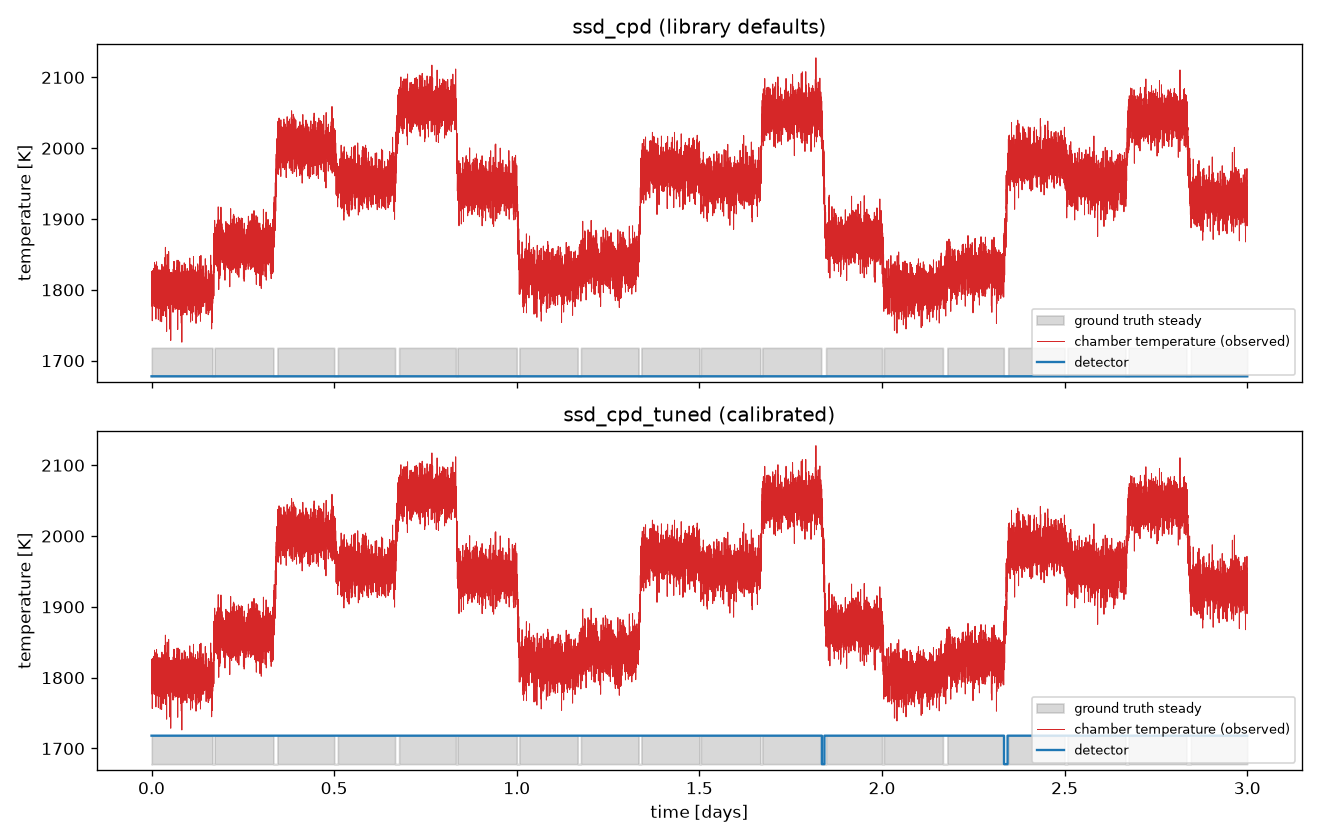
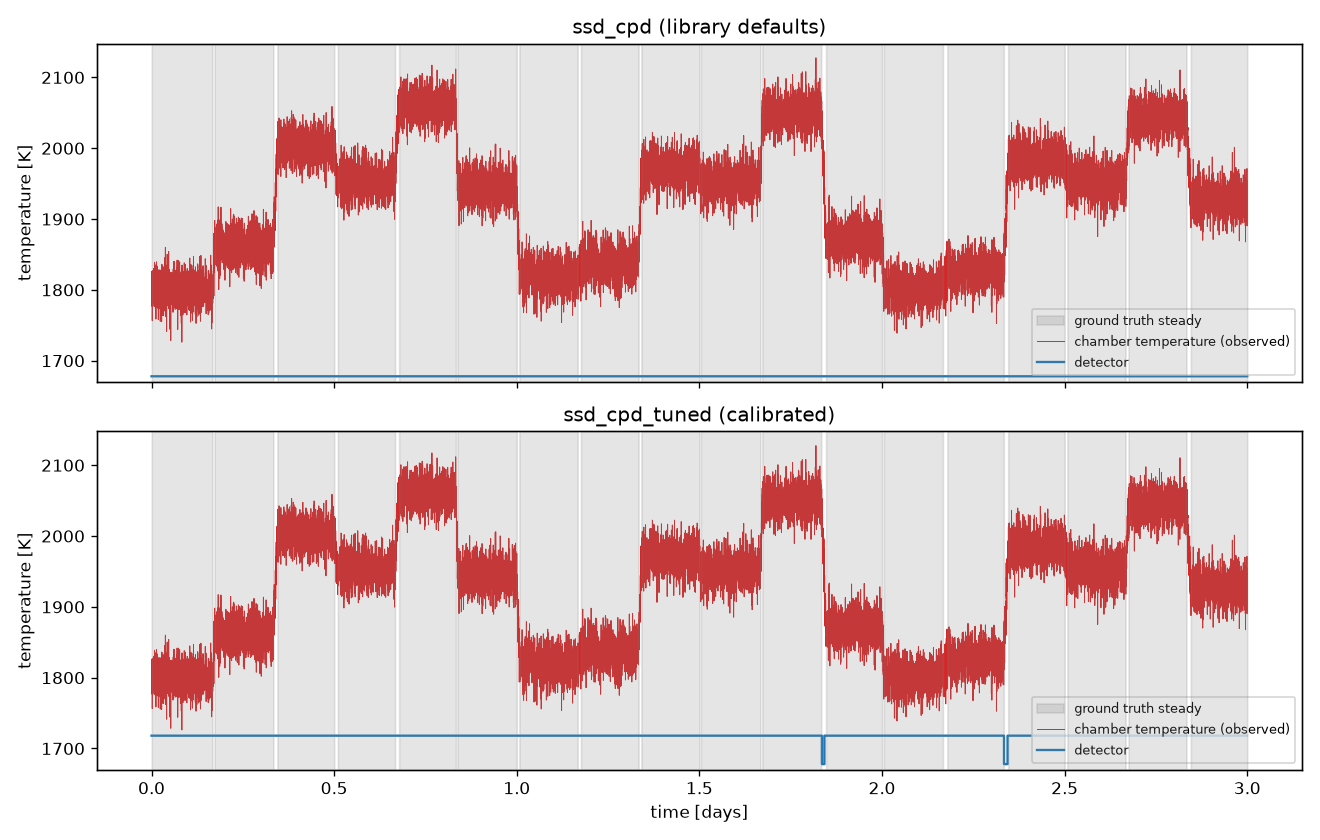
fix: restore full-height ground truth shading and commit reusable sample-figure script

diff --git a/scripts/make_sample_figures.py b/scripts/make_sample_figures.py
@@ -1,0 +1,130 @@
+"""Regenerates the extra figures embedded in README.md under samples/ that
+aren't produced by the main simulation/eval pipelines: the detection
+before/after comparison and the cluster-on-timeseries plot.
+
+Run from the repo root: .venv/bin/python scripts/make_sample_figures.py
+"""
+
+from __future__ import annotations
+
+import warnings
+from pathlib import Path
+
+import indsl.detect as indsl_detect
+import matplotlib
+
+matplotlib.use("Agg")
+import matplotlib.pyplot as plt
+import numpy as np
+import pandas as pd
+
+from src.cluster.cluster import cluster_steady_points
+from src.cluster.extract import extract_steady_points
+from src.cluster.naming import name_clusters
+from src.eval.labels import to_datetime_index
+
+DATASETS_DIR = Path("datasets")
+SAMPLES_DIR = Path("samples")
+
+
+def make_detection_before_after(run_id: str = "run_00000", days: float = 3.0) -> None:
+    """ssd_cpd library-default vs. tuned output, overlaid on the actual
+    temperature trace. Ground truth is a full-height background shading on
+    its own twin axis; the detector's 0/1 call is drawn directly in the
+    temperature axis's own coordinates, pinned to a fixed low band so it
+    sits at the identical position in both panels."""
+    df = pd.read_parquet(DATASETS_DIR / run_id / "data.parquet")
+    window = df[df.time < days * 86400].copy()
+    idx = to_datetime_index(window["time"])
+    series = pd.Series(window["temperature"].to_numpy(), index=idx)
+    time_days = window.time.to_numpy() / 86400.0
+    is_steady = window.is_steady.to_numpy()
+    temp = window.temperature.to_numpy()
+
+    with warnings.catch_warnings():
+        warnings.simplefilter("ignore")
+        pred_default = (
+            indsl_detect.ssd_cpd(series, min_distance=4, var_threshold=2.0, slope_threshold=-3.0)
+            .reindex(idx)
+            .ffill()
+            .fillna(0)
+            .to_numpy()
+        )
+        pred_tuned = (
+            indsl_detect.ssd_cpd(series, min_distance=4, var_threshold=5.0, slope_threshold=-5.0)
+            .reindex(idx)
+            .ffill()
+            .fillna(0)
+            .to_numpy()
+        )
+
+    tmin, tmax = temp.min(), temp.max()
+    trange = tmax - tmin
+    y_low = tmin - 0.12 * trange
+    y_high = tmin - 0.02 * trange
+
+    fig, axes = plt.subplots(2, 1, figsize=(11, 7), sharex=True)
+    panels = [
+        (axes[0], pred_default, "ssd_cpd (library defaults)"),
+        (axes[1], pred_tuned, "ssd_cpd_tuned (calibrated)"),
+    ]
+    for ax, pred, title in panels:
+        ax_bg = ax.twinx()
+        ax_bg.fill_between(time_days, 0, is_steady, step="post", color="gray", alpha=0.2, label="ground truth steady", zorder=0)
+        ax_bg.set_ylim(0, 1)
+        ax_bg.set_yticks([])
+
+        ax.plot(time_days, temp, color="tab:red", lw=0.6, label="chamber temperature (observed)", zorder=2)
+        detector_y = np.where(pred == 1, y_high, y_low)
+        ax.plot(time_days, detector_y, color="tab:blue", lw=1.4, drawstyle="steps-post", label="detector", zorder=3)
+        ax.set_ylim(y_low - 0.02 * trange, tmax + 0.05 * trange)
+        ax.set_ylabel("temperature [K]")
+        ax.set_title(title)
+
+        lines1, labels1 = ax.get_legend_handles_labels()
+        lines2, labels2 = ax_bg.get_legend_handles_labels()
+        ax.legend(lines2 + lines1, labels2 + labels1, loc="lower right", fontsize=8)
+
+    axes[1].set_xlabel("time [days]")
+    fig.tight_layout()
+    out_path = SAMPLES_DIR / "united_states" / "detection_before_after.png"
+    fig.savefig(out_path, dpi=120)
+    plt.close(fig)
+    print(f"saved {out_path}")
+
+
+def make_clusters_on_timeseries(run_id: str = "run_00000", region_label: str = "United States") -> None:
+    df = pd.read_parquet(DATASETS_DIR / run_id / "data.parquet")
+    points = extract_steady_points(DATASETS_DIR / run_id)
+    with warnings.catch_warnings():
+        warnings.simplefilter("ignore")
+        result = cluster_steady_points(points)
+    points["kmeans_cluster"] = result.kmeans_labels
+    names = name_clusters(points, "kmeans_cluster")
+    points["group_name"] = points.kmeans_cluster.map(names)
+
+    seg_to_group = dict(zip(points.segment_id, points.group_name))
+    df["group_name"] = df.segment_id.map(seg_to_group)
+
+    days = df.time / 86400.0
+    fig, ax = plt.subplots(figsize=(11, 4.5))
+    ax.plot(days, df.temperature, color="lightgray", lw=0.4, zorder=1, label="_nolegend_")
+
+    colors = plt.cm.tab10.colors
+    for i, (name, g) in enumerate(df[df.group_name.notna()].groupby("group_name")):
+        ax.scatter(g.time / 86400.0, g.temperature, s=3, color=colors[i % 10], label=name, zorder=2)
+
+    ax.set_xlabel("time [days]")
+    ax.set_ylabel("temperature [K]")
+    ax.set_title(f"{run_id} ({region_label}): steady points colored by detected group")
+    ax.legend(markerscale=4, fontsize=9, loc="lower right")
+    fig.tight_layout()
+    out_path = SAMPLES_DIR / "united_states" / "clusters_on_timeseries.png"
+    fig.savefig(out_path, dpi=120)
+    plt.close(fig)
+    print(f"saved {out_path}")
+
+
+if __name__ == "__main__":
+    make_detection_before_after()
+    make_clusters_on_timeseries()
